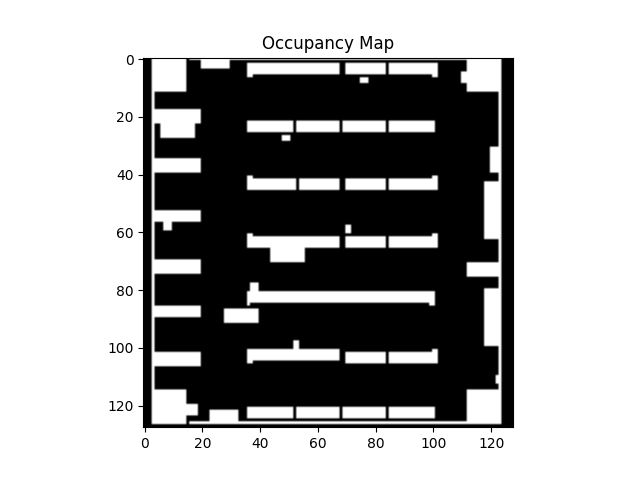
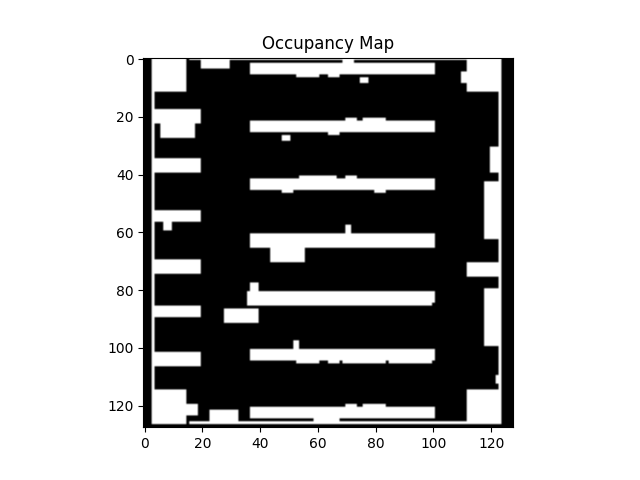
Map Generation with Names

diff --git a/map_generation.py b/map_generation.py
@@ -8,30 +8,37 @@ from pxr import Usd, UsdGeom
 from omni.isaac.core import World
 from omni.isaac.core.utils.stage import open_stage
 
-open_stage(usd_path='Warehouse_01.usd')
-world = World()
+def generate_occupancy_map(world, map_size=(128, 128), resolution=0.25, offset=(26.5, 0.5, 0.0), keywords_to_check=["RackPile"]):
+    """
+    Generate an occupancy map from the given world.
 
-world.reset()
+    Args:
+        world (World): The simulation world containing objects.
+        map_size (tuple): The size of the map in pixels (width, height).
+        resolution (float): The resolution of the map in meters per pixel.
+        offset (tuple): The offset to apply to the coordinates (x_offset, y_offset, z_offset).
+        keywords_to_check (list): List of keywords to check in object names.
 
-map_size = (128, 128)  # size of map (pixels)
-resolution = 0.25  # meter per pixel
-offset = np.array([26.5, 0.5, 0.0])  # offset in meters
-height_range = np.array([0.1, 7.0])  # check if the height is between 0.1m and 7.0m
-
-occupancy_map = np.zeros(map_size)
-
-def get_bounding_box(prim):
-    bbox_cache = UsdGeom.BBoxCache(Usd.TimeCode.Default(), [UsdGeom.Tokens.default_])
-    bbox = bbox_cache.ComputeWorldBound(prim).ComputeAlignedRange()
-    min_corner = bbox.GetMin()
-    max_corner = bbox.GetMax()
-    return min_corner, max_corner
-
-def update_occupancy_map(prim):
-    bbox_min, bbox_max = get_bounding_box(prim)
+    Returns:
+        np.ndarray: The generated occupancy map.
+    """
     
-    # Check if the height is between 0.1m and 7.0m and located at the ground (not hang on the roof)
-    if height_range[0] <= bbox_max[2] - bbox_min[2] <= height_range[1] and bbox_min[2] + offset[2] <= height_range[0]:
+    map_size = map_size  # size of map (pixels)
+    resolution = resolution  # meter per pixel
+    offset = np.array(offset)  # offset in meters
+
+    occupancy_map = np.zeros(map_size)
+
+    def get_bounding_box(prim):
+        bbox_cache = UsdGeom.BBoxCache(Usd.TimeCode.Default(), [UsdGeom.Tokens.default_])
+        bbox = bbox_cache.ComputeWorldBound(prim).ComputeAlignedRange()
+        min_corner = bbox.GetMin()
+        max_corner = bbox.GetMax()
+        return min_corner, max_corner
+
+    def update_occupancy_map(prim):
+        bbox_min, bbox_max = get_bounding_box(prim)
+
         x_min = int((bbox_min[0] + offset[0]) / resolution)
         x_max = int((bbox_max[0] + offset[0]) / resolution)
         y_min = int((bbox_min[1] + offset[1]) / resolution)
@@ -45,16 +52,54 @@ def update_occupancy_map(prim):
         
         occupancy_map[x_min:x_max, y_min:y_max] = 1
 
-# Iterate over all objects in the world
-stage = world.stage
-for prim in stage.Traverse():
-    if prim.GetTypeName() == "Xform":  # Only take Xforms (or check object name)
-        update_occupancy_map(prim)
+    def check_name_for_keywords(name):
+        # Split the name by '_' and check if any part contains a keyword
+        parts = name.split('_')
+        for part in parts:
+            for keyword in keywords_to_check:
+                if keyword in part:
+                    return True
+        return False
 
+    # Iterate over all objects in the world
+    stage = world.stage
+    for prim in stage.Traverse():
+        if prim.GetTypeName() == "Xform":  # Only take Xforms
+            # Check if the object's name contains any of the keywords
+            if check_name_for_keywords(prim.GetName()):
+                update_occupancy_map(prim)
+
+    return occupancy_map
+
+# Initialize and open the USD stage
+open_stage(usd_path='Warehouse_02.usd')
+world = World()
+
+world.reset()
+
+# Generate the occupancy map
+keywords_to_check=[
+    'RackPile', 
+    'RackLong', 
+    'Forklift', 
+    'Table', 
+    'IndustrialSteelShelving', 
+    'WallA', 
+    'RackShelf', 
+    'RackFrame', 
+    'RackShield',
+    'PaletteA',
+    'EmergencyBoardFull',
+    'FuseBox',
+    ]
+occupancy_map = generate_occupancy_map(world=world, keywords_to_check=keywords_to_check)
+
+# Display the occupancy map using matplotlib
 plt.imshow(occupancy_map, cmap='gray')
 plt.title("Occupancy Map")
 plt.show()
 
+# Keep the simulation running
 while True:
     world.step()
 
